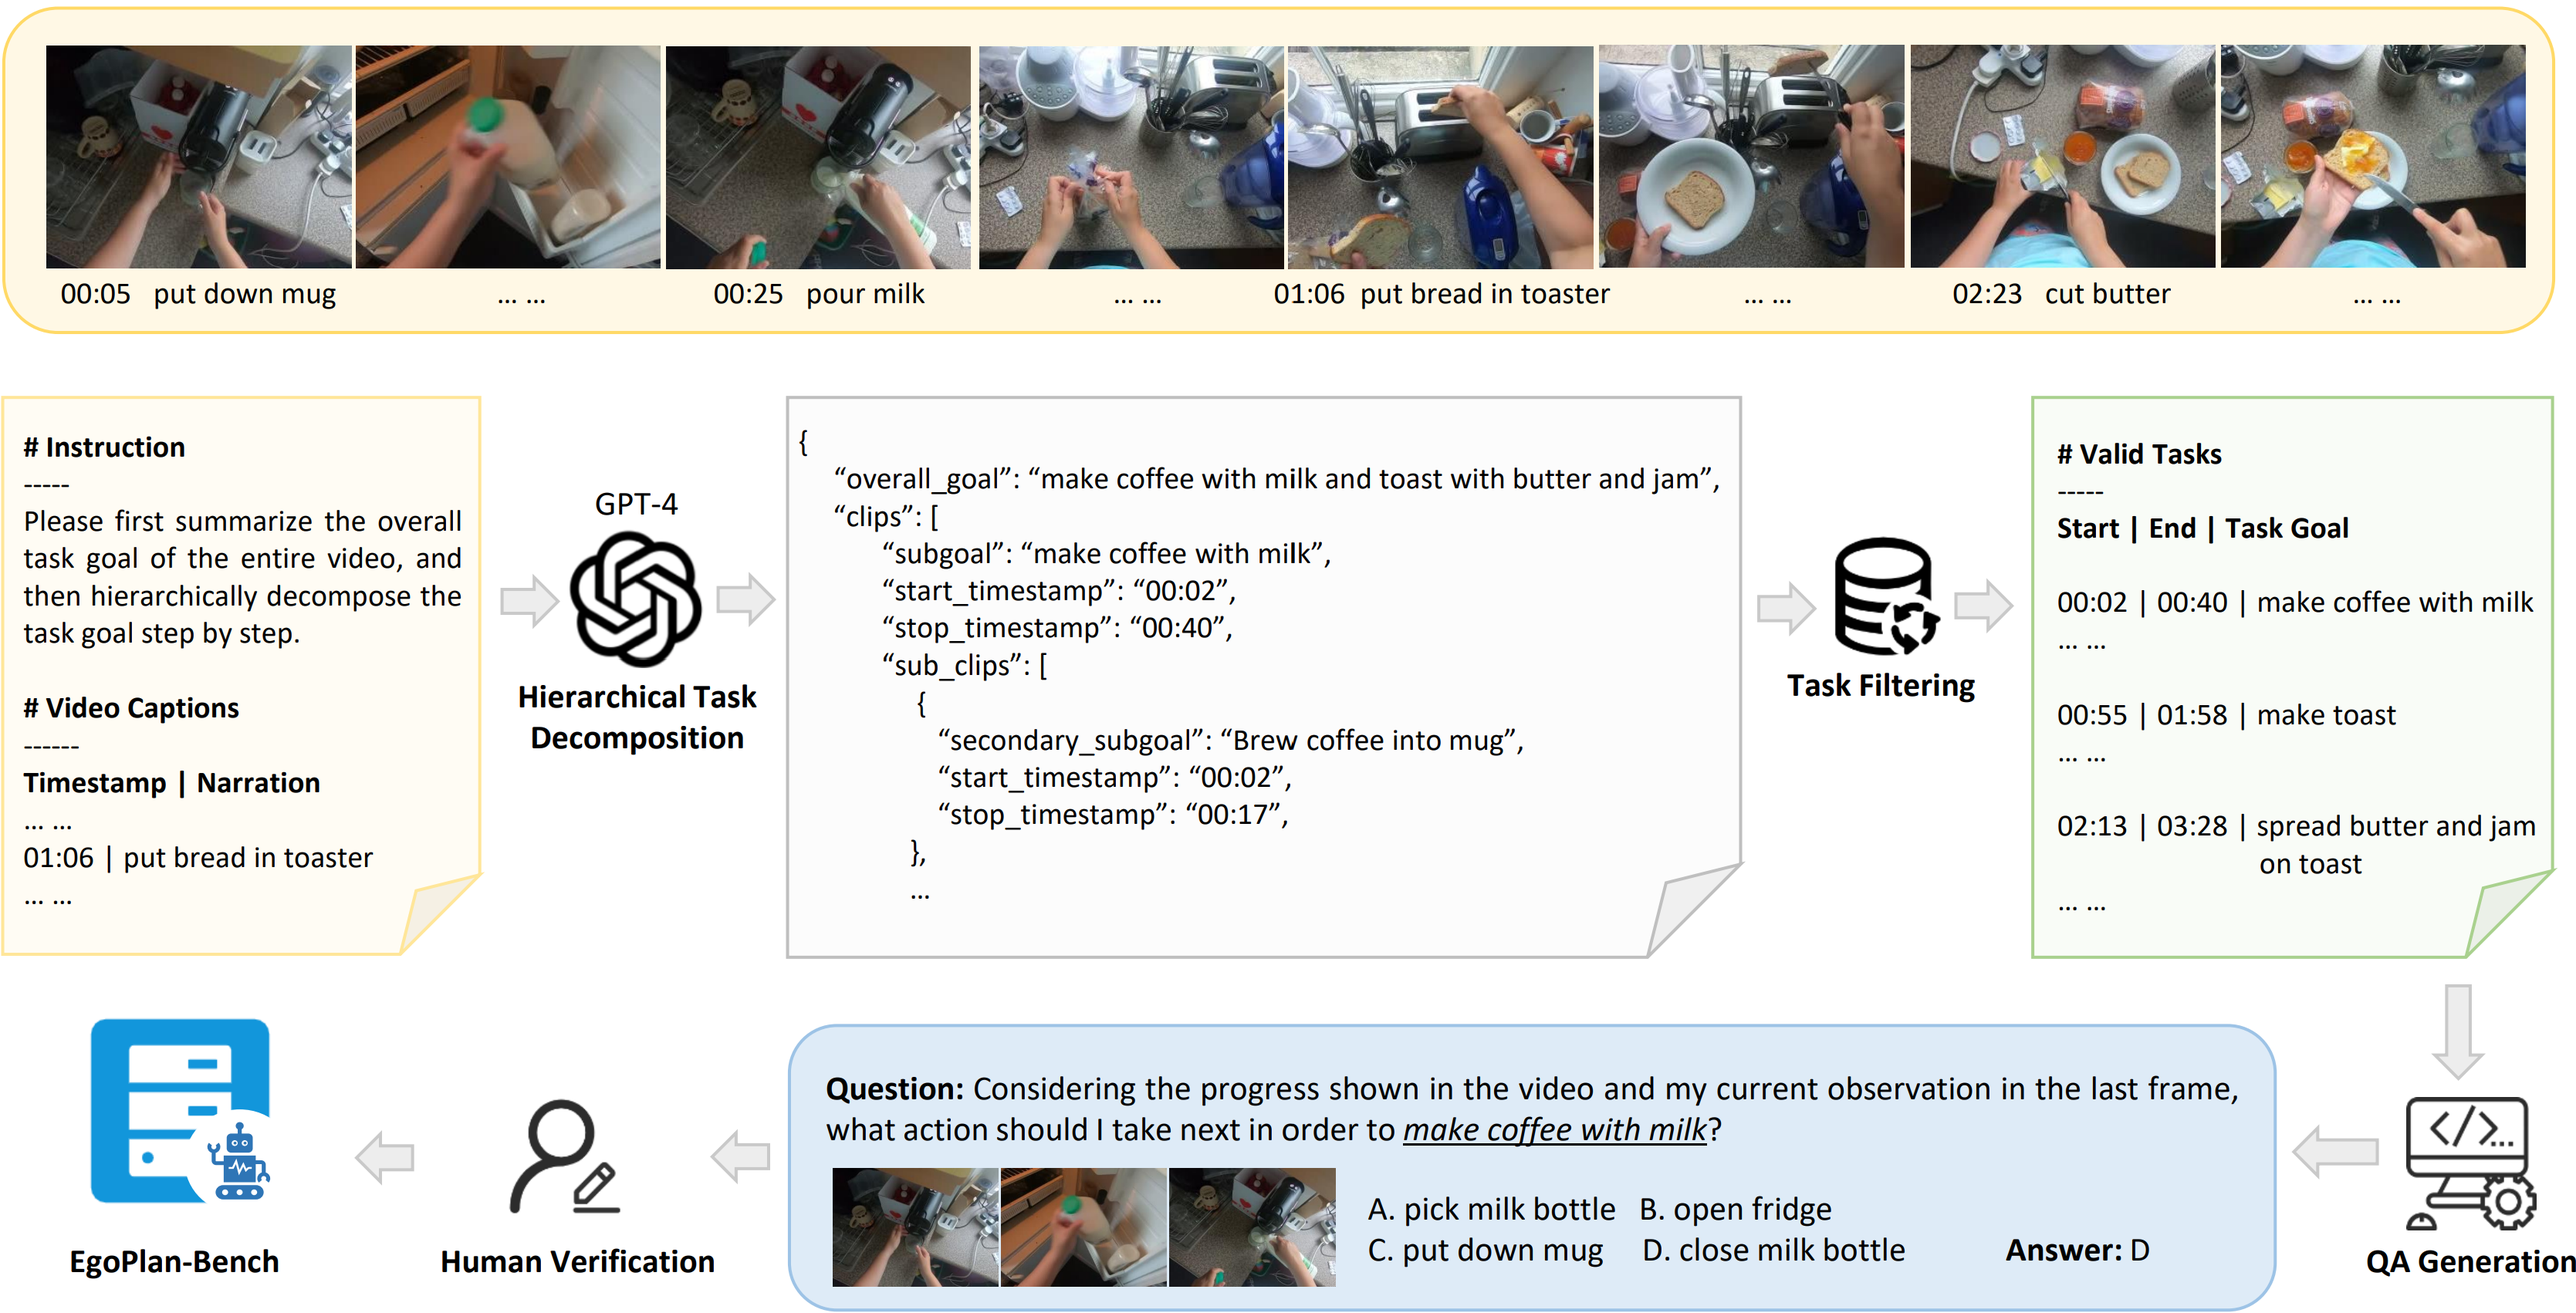
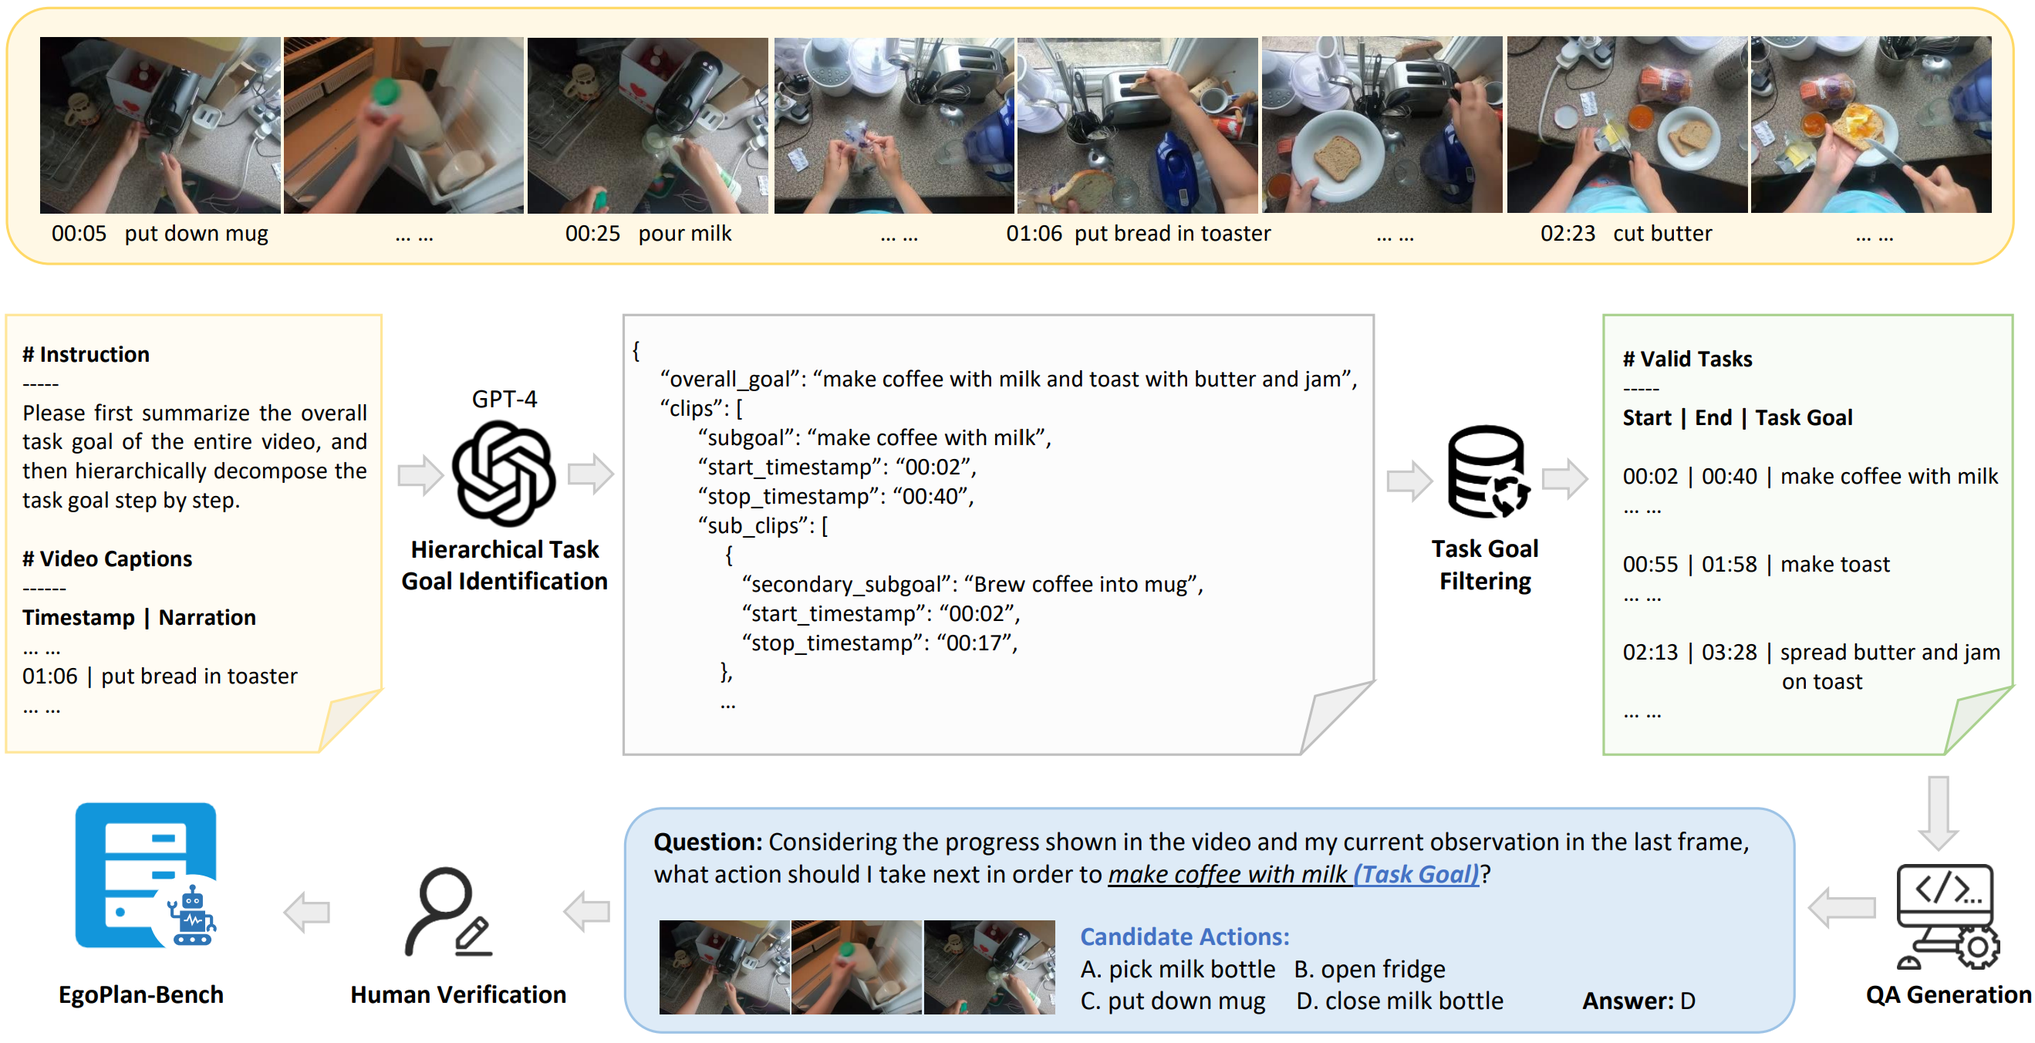
Update figures.

diff --git a/ego_plan/index.html b/ego_plan/index.html
@@ -102,14 +102,14 @@ Multimodal Large Language Models</h1>
               <a href="https://dingmyu.github.io/">Mingyu Ding</a><sup>3</sup>,
             </span>
             <span class="author-block">
-              <a href="https://bohao-lee.github.io/">Bohao Li</a><sup>1,4</sup>,
+              <a href="https://bohao-lee.github.io/">Bohao Li</a><sup>1</sup>,
             </span>
             <span class="author-block">
               <a>Rui Wang</a>,
             </span>
             <br>
             <span class="author-block">
-              <a>Ruifeng Xu</a><sup>5</sup>,
+              <a>Ruifeng Xu</a><sup>4</sup>,
             </span>
             <span class="author-block">
               <a href="https://scholar.google.com/citations?user=4oXBp9UAAAAJ&hl=en">Ying Shan</a><sup>1</sup>,
@@ -121,10 +121,10 @@ Multimodal Large Language Models</h1>
 
           <div class="is-size-5 publication-authors">
             <span class="author-block"><sup>1</sup>Tencent AI Lab,</span>
-            <span class="author-block"><sup>2</sup>The University of Hong Kong,</span>
+            <span class="author-block"><sup>2</sup>The University of Hong Kong,</span> <br>
             <span class="author-block"><sup>3</sup>University of California, Berkeley,</span>
-            <span class="author-block"><sup>4</sup>The Chinese University of Hong Kong, Shenzhen,</span>
-            <span class="author-block"><sup>5</sup>Peng Cheng Laboratory</span>
+<!--            <span class="author-block"><sup>4</sup>The Chinese University of Hong Kong, Shenzhen,</span>-->
+            <span class="author-block"><sup>4</sup>Peng Cheng Laboratory</span>
           </div>
 
           <div class="column has-text-centered">
@@ -226,32 +226,57 @@ Multimodal Large Language Models</h1>
       <div class="column is-four-fifths">
         <h2 class="title is-3">Abstract</h2>
         <div class="content has-text-justified">
+<!--          <p>-->
+<!--            Multimodal Large Language Models (MLLMs), building upon the powerful Large Language Models (LLMs)-->
+<!--            with exceptional reasoning and generalization capability,-->
+<!--            have opened up new avenues for embodied task planning.-->
+<!--            MLLMs excel in their ability to integrate diverse environmental inputs, such as real-time task progress, visual observations, and open-form language instructions, which are-->
+<!--            crucial for executable task planning.-->
+<!--          </p>-->
+
+<!--          <p>-->
+<!--            In this work, we introduce a benchmark with human annotations, <b>EgoPlan-Bench</b>, to quantitatively investigate the potential of MLLMs-->
+<!--            as embodied task planners in real-world scenarios. Our-->
+<!--            benchmark is distinguished by realistic tasks derived from-->
+<!--            real-world videos, a diverse set of actions involving interactions with hundreds of different objects, and complex visual observations from varied environments. We evaluate-->
+<!--            various open-source MLLMs, revealing that these models-->
+<!--            have not yet evolved into embodied planning generalists-->
+<!--            (even GPT-4V).-->
+<!--          </p>-->
+
+<!--          <p>-->
+<!--            We further construct an instruction-tuning-->
+<!--            dataset <b>EgoPlan-IT</b> from videos of human-object interactions, to facilitate the learning of high-level task planning-->
+<!--            in intricate real-world situations. The experiment results-->
+<!--            demonstrate that the model tuned on EgoPlan-IT not only-->
+<!--            significantly improves performance on our benchmark, but-->
+<!--            also effectively acts as embodied planner in simulations.-->
+<!--          </p>-->
+
           <p>
-            Multimodal Large Language Models (MLLMs), building upon the powerful Large Language Models (LLMs)
-            with exceptional reasoning and generalization capability,
-            have opened up new avenues for embodied task planning.
-            MLLMs excel in their ability to integrate diverse environmental inputs, such as real-time task progress, visual observations, and open-form language instructions, which are
-            crucial for executable task planning.
+          Multimodal Large Language Models, combining the remarkable reasoning and generalization capabilities of Large Language Models
+          (LLMs) with the ability to comprehend visual inputs, have opened up
+          new avenues for embodied task planning. Given diverse environmental
+          inputs, including real-time task progress, visual observations, and openform language instructions, a proficient task planner is expected to predict feasible actions, which is a feat inherently achievable by Multimodal
+          Large Language Models (MLLMs).
           </p>
 
           <p>
-            In this work, we introduce a benchmark with human annotations, <b>EgoPlan-Bench</b>, to quantitatively investigate the potential of MLLMs
-            as embodied task planners in real-world scenarios. Our
-            benchmark is distinguished by realistic tasks derived from
-            real-world videos, a diverse set of actions involving interactions with hundreds of different objects, and complex visual observations from varied environments. We evaluate
-            various open-source MLLMs, revealing that these models
-            have not yet evolved into embodied planning generalists
-            (even GPT-4V).
+          In this work, we aim to quantitatively investigate the potential of MLLMs as embodied task planners
+          in real-world scenarios by introducing a benchmark with human annotations named <b>EgoPlan-Bench</b>. Our benchmark is distinguished by realistic
+          tasks derived from real-world videos, a diverse set of actions involving
+          interactions with hundreds of different objects, and complex visual observations from varied scenes. We evaluate a wide range of MLLMs, revealing that these models have not yet evolved into embodied planning
+          generalists (even GPT-4V).
           </p>
 
           <p>
-            We further construct an instruction-tuning
-            dataset <b>EgoPlan-IT</b> from videos of human-object interactions, to facilitate the learning of high-level task planning
-            in intricate real-world situations. The experiment results
-            demonstrate that the model tuned on EgoPlan-IT not only
-            significantly improves performance on our benchmark, but
-            also effectively acts as embodied planner in simulations
+          We further construct an instruction-tuning
+          dataset <b>EgoPlan-IT</b> from videos with human-object interactions, to facilitate the learning of high-level task planning in intricate real-world
+          situations. The experiment results demonstrate that the model tuned on
+          EgoPlan-IT not only significantly improves performance on our benchmark, but can also be applied as a task planner for guiding embodied
+          agents in simulations.
           </p>
+
         </div>
       </div>
     </div>
@@ -278,11 +303,18 @@ Multimodal Large Language Models</h1>
     <img src="./static/images/benchmark_construction.png"
          alt="Benchmark construction."/>
     <p>
-      Overview of the construction pipeline for EgoPlan-Bench based on existing untrimmed egocentric videos with detailed action
-      narrations. (1) We first leverage GPT-4 to identify and decompose the common task goals of actions in a hierarchical way. (2) We then
-      filter out tasks that are either too short or too long. (3) The questions are designed in the form of multiple-choice, where the questions are
-      automatically generated based on task goals, and the options are derived from actions in different steps of the same task. (4) We finally
-      employ human annotators to verify each question to ensure the quality of our benchmark.
+<!--      Overview of the construction pipeline for EgoPlan-Bench based on existing untrimmed egocentric videos with detailed action-->
+<!--      narrations. (1) We first leverage GPT-4 to identify and decompose the common task goals of actions in a hierarchical way. (2) We then-->
+<!--      filter out tasks that are either too short or too long. (3) The questions are designed in the form of multiple-choice, where the questions are-->
+<!--      automatically generated based on task goals, and the options are derived from actions in different steps of the same task. (4) We finally-->
+<!--      employ human annotators to verify each question to ensure the quality of our benchmark.-->
+      Overview of the construction pipeline for EgoPlan-Bench based on existing
+      untrimmed egocentric videos with detailed action narrations. (1) We first leverage
+      GPT-4 to identify task goals through hierarchical reasoning. (2) We then filter task
+      goals based on the requisite number of actions. (3) The questions are designed in the
+      form of multiple-choice, where the questions are automatically generated based on task
+      goals, and the options are derived from different actions under the same task goal. (4)
+      We employ human annotators to verify each question to ensure the benchmark quality.
     </p>
   </div>
 </section>
@@ -290,23 +322,41 @@ Multimodal Large Language Models</h1>
 <section class="section">
   <div class="container is-max-desktop">
     <h2 class="title is-3">Data Statistics</h2>
+<!--    <p>-->
+<!--      Our benchmark comprises a total-->
+<!--      of 3,355 QA pairs, with 2,432 derived from Epic-Kitchen-->
+<!--      egocentric videos and 923 from Ego4D.-->
+<!--      Drawing upon the attributes of the utilized egocentric video sources, our benchmark exhibits three main-->
+<!--      characteristics. <b>1) Realism of Tasks:</b> The tasks are extrapolated from authentic real-world videos, offering a closer-->
+<!--      reflection of daily human needs and showcasing greater variety than artificially constructed tasks.-->
+<!--      <b>2) Diversity of Actions:</b> The benchmark involves a diverse set of actions, requiring interaction with hundreds of different objects and-->
+<!--      extending beyond basic manipulation skills such as picking-->
+<!--      and placing items. <b>3) Intricacy of Visual Observations:</b>-->
+<!--      The visual observations come from various, often distinct-->
+<!--      real-world environments, where objects vary in appearance,-->
+<!--      state, and placement.-->
+<!--    </p>-->
+
+
     <p>
       Our benchmark comprises a total
-      of 3,355 QA pairs, with 2,432 derived from Epic-Kitchen
-      egocentric videos and 923 from Ego4D.
+      of 3,355 QA pairs.
       Drawing upon the attributes of the utilized egocentric video sources, our benchmark exhibits three main
-      characteristics. <b>1) Realism of Tasks:</b> The tasks are extrapolated from authentic real-world videos, offering a closer
-      reflection of daily human needs and showcasing greater variety than artificially constructed tasks.
-      <b>2) Diversity of Actions:</b> The benchmark involves a diverse set of actions, requiring interaction with hundreds of different objects and
-      extending beyond basic manipulation skills such as picking
-      and placing items. <b>3) Intricacy of Visual Observations:</b>
-      The visual observations come from various, often distinct
-      real-world environments, where objects vary in appearance,
-      state, and placement.
+      characteristics.
+      <b>1)Realism of Tasks:</b> The tasks are extrapolated from authentic real-world videos,
+      offering a closer reflection of daily human needs and showcasing greater variety
+      than artificially constructed tasks. <b>2) Diversity of Actions:</b> The benchmark
+      involves a diverse set of actions, requiring interaction with hundreds of different objects and extending beyond basic manipulation skills such as picking and
+      placing items. <b>3) Intricacy of Visual Observations:</b> The visual observations
+      come across various real-world scenes, where objects vary in appearance, state,
+      and placement.
     </p>
+
+
     <br>
     <div class="columns is-centered">
       <div class="column">
+
         <!-- Evaluation Data Statistics. -->
         <div class="content has-text-centered">
           <img src="./static/images/data_statistics.png" width="78.5%"
@@ -316,11 +366,19 @@ Multimodal Large Language Models</h1>
           </p>
         </div>
         <!--/ Evaluation Data Statistics. -->
+      </div>
+    </div>
+    <!--/ Matting. -->
 
+    <div class="columns is-centered">
+      <div class="column">
+        <br>
+        <br>
         <!-- Task Goal Distribution. -->
         <div class="content has-text-centered">
-          <img src="./static/images/task_goal_distribution.png" width="78.5%"
+          <img src="./static/images/task_goal_distribution.png" width="100%"
          alt="Task Goal Distribution."/>
+          <br><br>
           <p>
             b) Wordcloud of verbs in task goals of EgoPlan-Bench.
           </p>
@@ -337,7 +395,8 @@ Multimodal Large Language Models</h1>
           <p>
 <!--            The top 20 most common root verbs (inner circle) and-->
 <!--            their top 8 direct noun objects (outer circle) in the candidate actions from the EgoPlan-Bench (log rescaled).-->
-            c) Distribution of the verbs and nouns in the candidate actions from the EgoPlan-Bench (log rescaled).
+<!--            c) Distribution of the verbs and noun objects in the candidate actions from the EgoPlan-Bench (log rescaled).-->
+            c) Top 20 verbs with top 8 related objects in EgoPlan-<br>Bench candidate actions.
           </p>
         </div>
       </div>
@@ -355,7 +414,7 @@ Multimodal Large Language Models</h1>
     <div class="container is-max-desktop">
       <h2 class="title is-3">Evaluation Results</h2>
       <p>
-        We evaluate a wide range of open-source MLLMs. The results indicate that our EgoPlan-Bench
+        We evaluate a wide range of MLLMs. The results indicate that our EgoPlan-Bench
         poses significant challenges for existing MLLMs, and there
         is still a long way to go before these models evolve into
         generalist embodied task planners.
